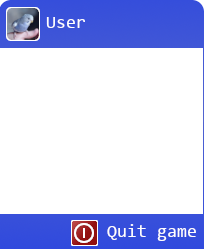
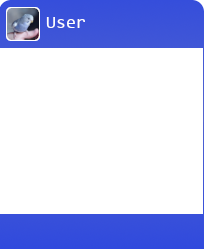
Bouton quitter

Changed region(s): [[0.3235, 0.8715, 0.5, 1.0], [0.7647, 0.8996, 0.9706, 0.9839], [0.5294, 0.8996, 0.7059, 0.9839]]

diff --git a/src/UI.cpp b/src/UI.cpp
@@ -38,18 +38,28 @@ void UI::draw(sf::RenderWindow & window)
 
 	window.draw(getInstance().spriteBarre_);
 	window.draw(getInstance().spriteButton_);
-	if(getInstance().displayed_) window.draw(getInstance().spriteMenu_);
-
+	if (getInstance().displayed_) 
+	{
+		window.draw(getInstance().spriteMenu_);
+		window.draw(getInstance().spriteQuit_);
+	}
 	window.draw(getInstance().textTime_);
 	window.draw(getInstance().textDate_);
 }
 
-void UI::actionMouseClicked(sf::Vector2f pos)
+bool UI::actionMouseClicked(sf::Vector2f pos)
 {
 	if (getInstance().spriteButton_.getGlobalBounds().contains(pos))
 		getInstance().displayed_ = !getInstance().displayed_;
+	else if (getInstance().displayed_)
+	{
+		if(getInstance().spriteQuit_.getGlobalBounds().contains(pos))
+			return true;
+	}
 	else if(!getInstance().spriteMenu_.getGlobalBounds().contains(pos))
 		getInstance().displayed_ = false;
+
+	return false;
 }
 
 void UI::loadSprites()
@@ -62,6 +72,10 @@ void UI::loadSprites()
 
 	getInstance().spriteMenu_.setTexture(RessourceLoader::getTexture("ui/desktop/menu_demarrer.png"));
 	getInstance().spriteMenu_.setPosition(0, WINDOW_SIZE_Y - getInstance().spriteButton_.getGlobalBounds().height - getInstance().spriteMenu_.getGlobalBounds().height);
+
+	getInstance().spriteQuit_.setTexture(RessourceLoader::getTexture("ui/desktop/quit_button.png"));
+	getInstance().spriteQuit_.setPosition(60, WINDOW_SIZE_Y - 1.8*getInstance().spriteButton_.getGlobalBounds().height);
+
 
 	getInstance().textDate_.setFont(RessourceLoader::getFont("font/consola.ttf"));
 	getInstance().textDate_.setCharacterSize(15);

diff --git a/src/UI.h b/src/UI.h
@@ -9,6 +9,7 @@ class UI {
 		sf::Sprite spriteBarre_;
 		sf::Sprite spriteButton_;
 		sf::Sprite spriteMenu_;
+		sf::Sprite spriteQuit_;
 		sf::Text textDate_;
 		sf::Text textTime_;
 		bool displayed_ = false;
@@ -20,7 +21,7 @@ class UI {
 
 		static UI& getInstance();
 		static void draw(sf::RenderWindow &window);
-		static void actionMouseClicked(sf::Vector2f pos);
+		static bool actionMouseClicked(sf::Vector2f pos);
 		static void loadSprites();
 };
 

diff --git a/src/Platformer.cpp b/src/Platformer.cpp
@@ -53,7 +53,8 @@ std::unique_ptr<Screen> Platformer::execute()
 			if (event.type == sf::Event::MouseButtonPressed && event.mouseButton.button == sf::Mouse::Left)
 			{
 				sf::Vector2f mousePos(sf::Mouse::getPosition(window_).x, sf::Mouse::getPosition(window_).y);
-				UI::actionMouseClicked(mousePos);
+				if (UI::actionMouseClicked(mousePos))
+					return nullptr;
 			}
         }
 
